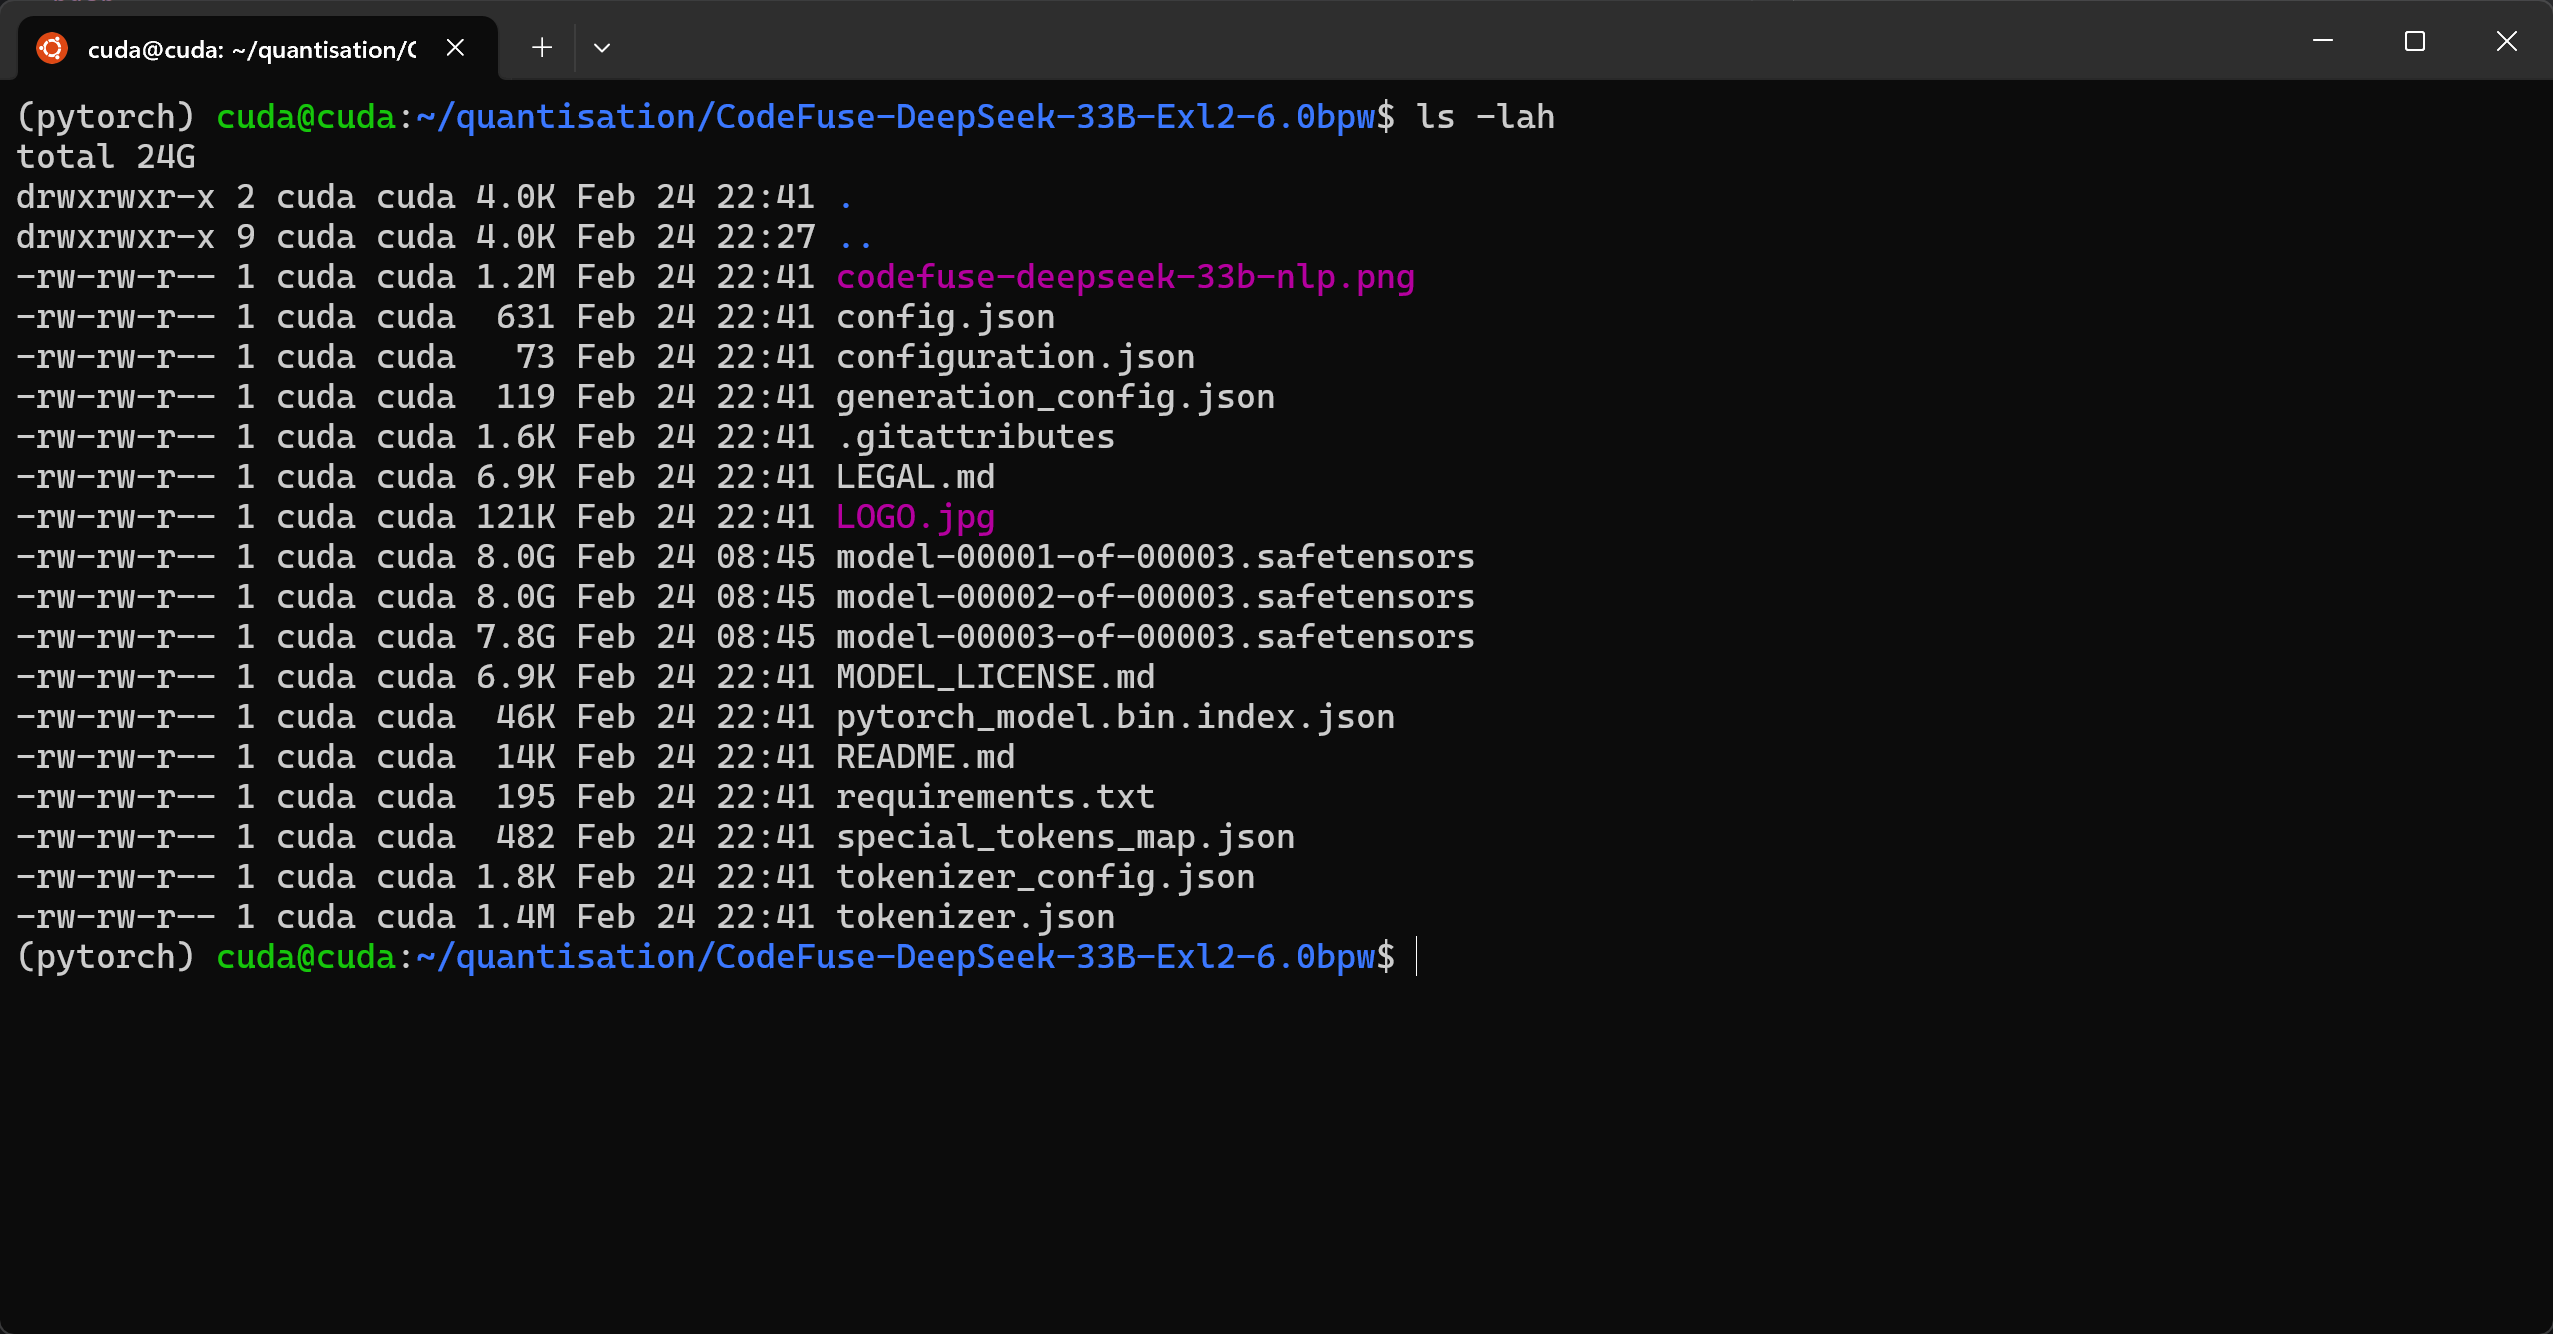
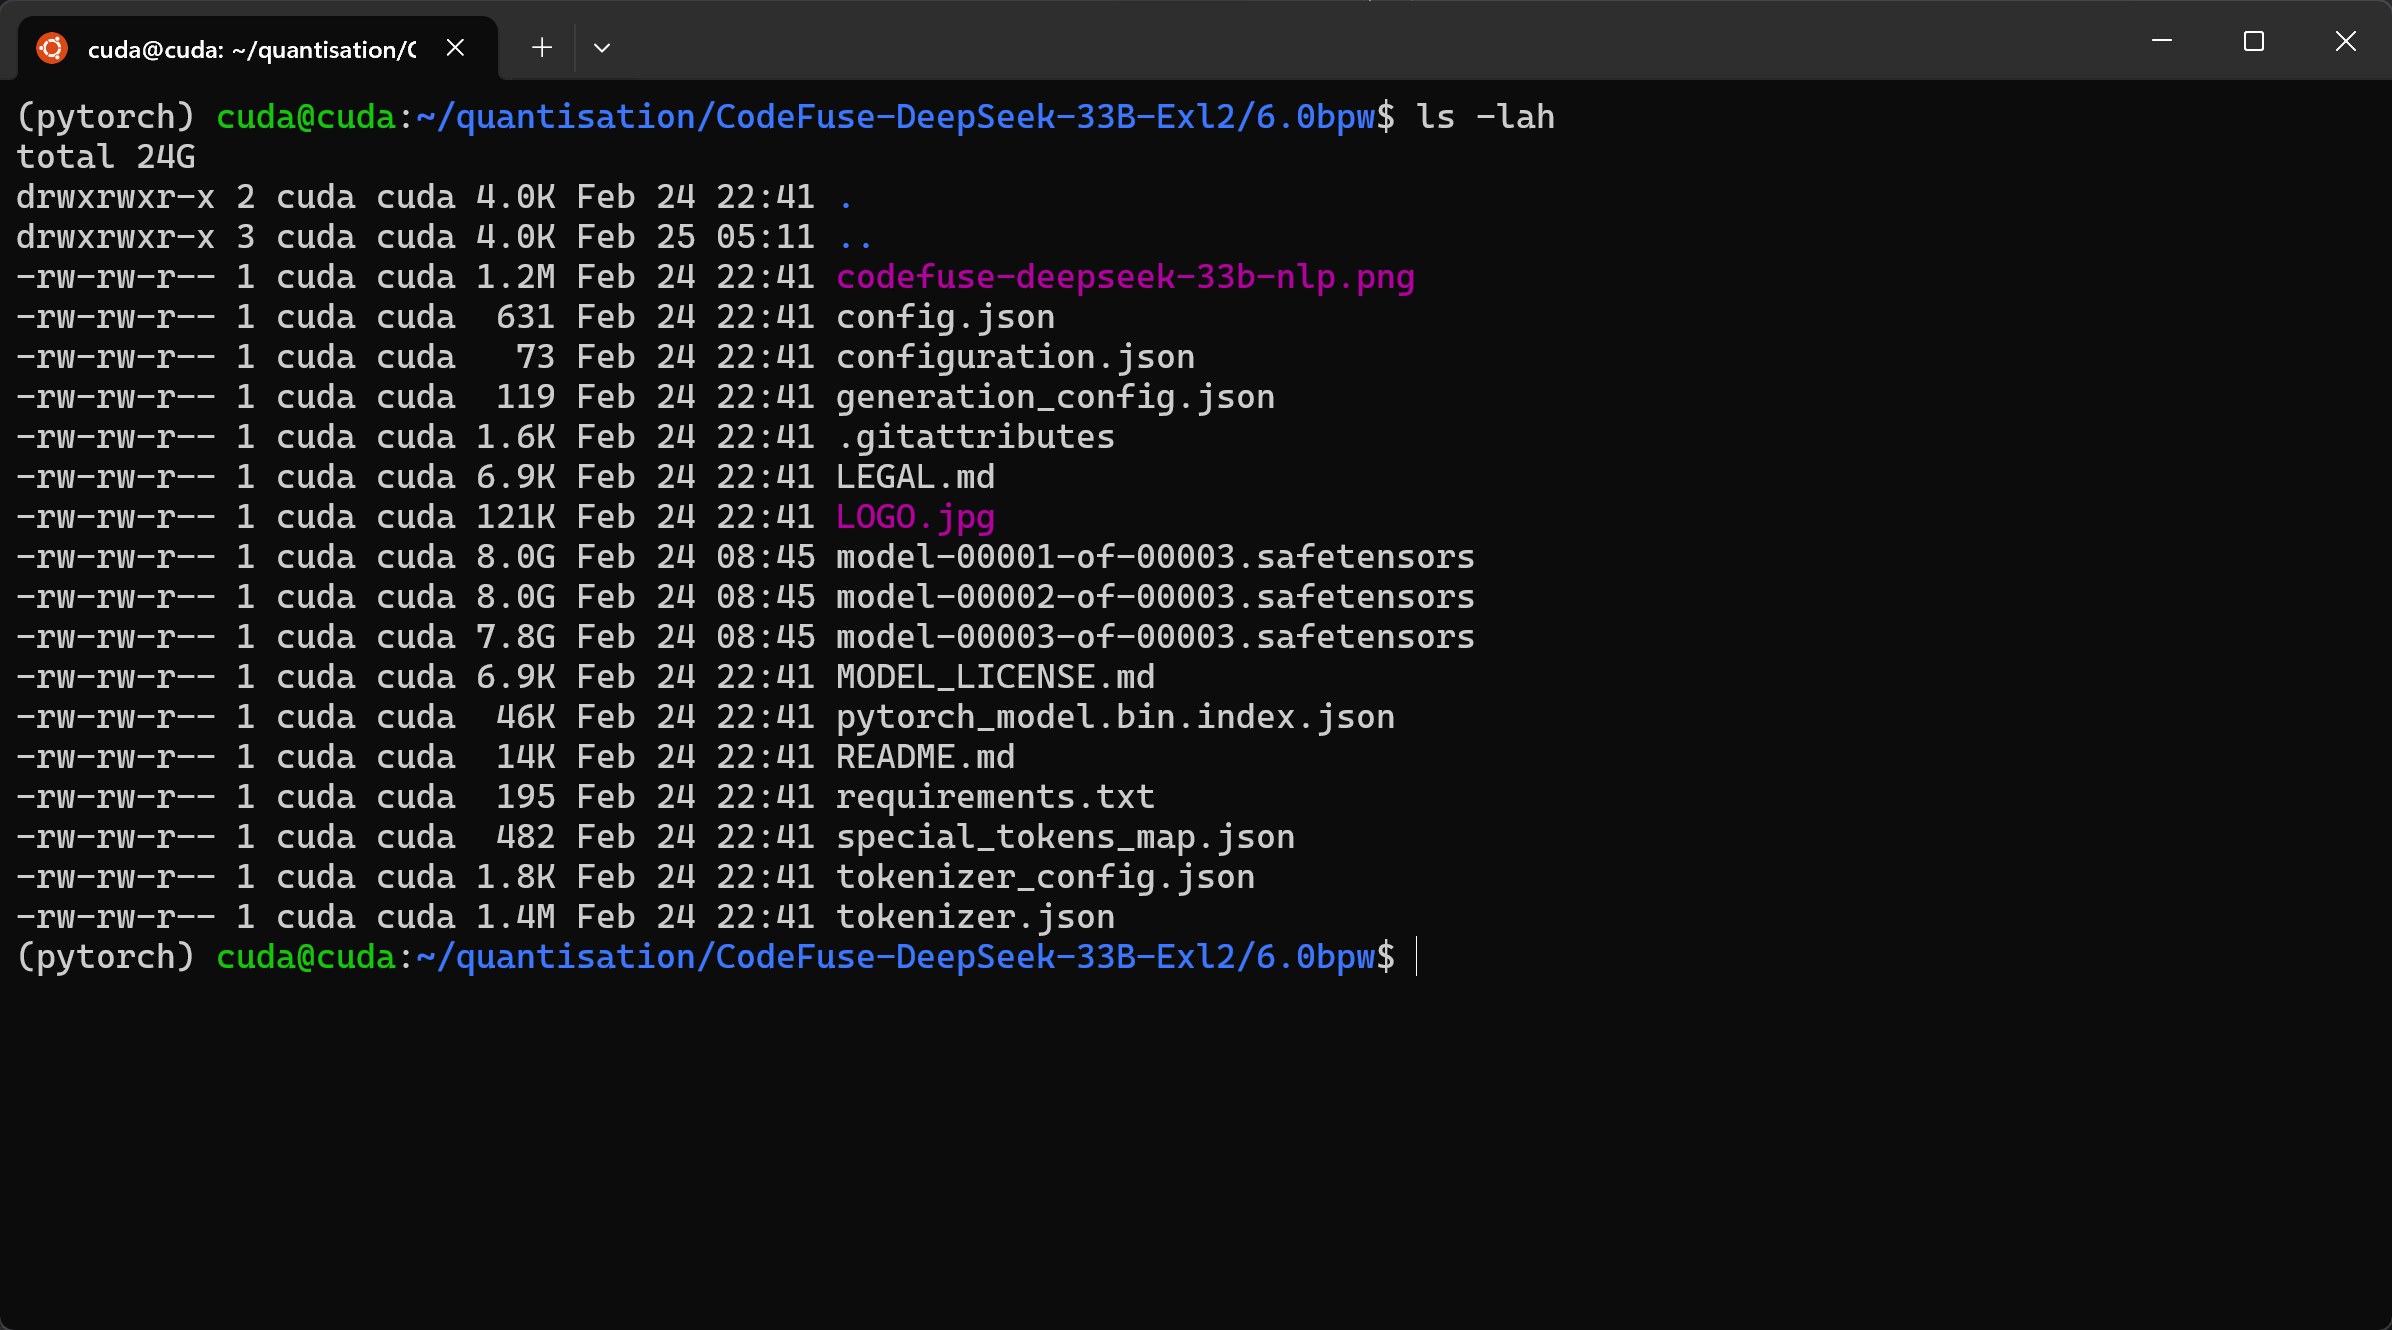
Minor corrections, standardise paths, update the convert.py params to output a fully compiled directory with the '-cf' flag (#12)

Changed region(s): [[0.0, 0.0, 0.6497, 0.7398]]

diff --git a/content/posts/convert-model-from-pytorch-to-safetensor-and-quantise-to-exl2/index.md b/content/posts/convert-model-from-pytorch-to-safetensor-and-quantise-to-exl2/index.md
@@ -18,7 +18,7 @@ This was inspired by posts which reported coding LLMs quantised to Exl2 format u
 
 In the example we are converting [codefuse-ai/CodeFuse-DeepSeek-33B](https://huggingface.co/codefuse-ai/CodeFuse-DeepSeek-33B) to Exl2 6bpw (bits per weight).
 
-I am yet to play with this model. It is a finetune of DeepSeek Coder 33B which a good open-source coding model with a license allowing commercial usage.
+I am yet to play with this model. It is a finetune of [deepseek-coder-33b-instruct](https://huggingface.co/deepseek-ai/deepseek-coder-33b-instruct) which a good open-source coding model with a license allowing commercial usage.
 
 The conversion process took just under 3 hours. It was successful using a single RTX 3060 with 12GB VRAM, and approximately 64GB RAM.
 
@@ -33,14 +33,12 @@ The conversion process took just under 3 hours. It was successful using a single
 * **Conda**
 * **Pytorch**
 * **Nvidia CUDA Toolkit**
-* **Pytorch**
-* **Tensors**
 * **ExLlamaV2**
 
 ## Bring Your Own
 * **Host with Ubuntu**
 * **Nvidia GPU**
-    * Minimum 12GB VRAM for a 33 billion parameter model
+    * 12GB VRAM did the job for a 33 billion parameter model
 * **64GB available RAM**
 * **100GB+ available disk space**
 * **Software for Testing the Quantised Model** (e.g. Text generation web UI, KoboldAI-Client, etc.)
@@ -62,18 +60,22 @@ We can confirm successful installation with the `nvidia-smi` command:
 
 ### Install Conda
 ```bash
+mkdir ~/quantisation
+cd ~/quantisation
 curl https://repo.anaconda.com/miniconda/Miniconda3-latest-Linux-x86_64.sh -O
 chmod +x Miniconda3-latest-Linux-x86_64.sh
-./Miniconda3-latest-Linux-x86_64.sh
+./Miniconda3-latest-Linux-x86_64.sh #Accept the license, and yes to the shell integration 
 ```
 We use Conda to manage Python environments. It makes handling dependencies easier when using multiple Python projects.
+
+We have created a `quantisation` directory in the users home directory to keep all the working files.
 
 ### Create a Virtual Environment using Conda
 ```bash
 conda create -n pytorch python=3.11 -y
 conda activate pytorch
 ```
-
+This creates a Virtual Environment called `pytorch` for all required Python libraries.
 
 ### Install Hugging Face Hub Package 
 ```bash
@@ -82,13 +84,13 @@ conda install huggingface_hub
 This package includes `huggingface-cli` which allows easy access to files on Hugging Face.
 
 ### Download the Model
-```
-huggingface-cli download codefuse-ai/CodeFuse-DeepSeek-33B --local-dir CodeFuse-DeepSeek-33B
+```bash
+huggingface-cli download codefuse-ai/CodeFuse-DeepSeek-33B --local-dir ~/quantisation/CodeFuse-DeepSeek-33B
 ```
 
 ### Convert Model in Pytorch Format to Safetensors Format
 ```bash
-clone https://github.com/Silver267/pytorch-to-safetensor-converter.git
+git clone https://github.com/Silver267/pytorch-to-safetensor-converter.git
 cd pytorch-to-safetensor-converter
 pip install -r requirements.txt
 python convert_to_safetensor.py
@@ -104,6 +106,7 @@ Pytorch is a dependency of ExLlamaV2.
 
 ### Install ExLlamaV2
 ```bash
+cd ~/quantisation
 git clone https://github.com/turboderp/exllamav2
 cd exllamav2
 pip install .
@@ -113,8 +116,7 @@ We install from source to prevent issues with CUDA versions not matching.
 
 ### Download Calibration Dataset
 ```bash
-cd ..
-huggingface-cli download --repo-type dataset rombodawg/MegaCodeTraining --revision refs/convert/parquet --include '*.parquet' --local-dir MegaCodeTraining
+huggingface-cli download --repo-type dataset rombodawg/MegaCodeTraining --revision refs/convert/parquet --include '*.parquet' --local-dir ~/quantisation/MegaCodeTraining
 ```
 The dataset is used for calibration data when quantising the model from Safetensors format to ExLlamaV2. It is in the `parquet` format as required by ExLlamaV2.  
 
@@ -123,38 +125,30 @@ This followed the example set by [epicfilemcnulty in this post.](https://www.red
 
 ### Quantise the Safetensors Model to ExLlamaV2
 ```bash
-cd exllamav2
-python convert.py -b 6.0 -rs 4 -i ../CodeFuse-DeepSeek-33B/CodeFuse-DeepSeek-33B_safetensors/ -o ../CodeFuse-DeepSeek-33B-Exl2 -c ../MegaCodeTraining/default/train/0000.parquet
+mkdir -p ~/quantisation/CodeFuse-DeepSeek-33B-Exl2/6.0bpw
+cd ~/quantisation/exllamav2
+python convert.py -b 6.0 -rs 4 -c ~/quantisation/MegaCodeTraining/default/train/0000.parquet -i ~/quantisation/CodeFuse-DeepSeek-33B/CodeFuse-DeepSeek-33B_safetensors/ -o ~/quantisation/CodeFuse-DeepSeek-33B-Exl2 -cf ~/quantisation/CodeFuse-DeepSeek-33B-Exl2/6.0bpw 
 ```
 We set the desired average bits per weight to 6.0. This a relatively high bpw, the intended system has 48GB available VRAM. Note `rope-scaling` does not read automatically from the model's `config.json`, DeepSeek Coder's is 4. For many other models I have seen the value is 1. 
 
+This command took a bit under three hours to finish.
+
 ![Quantise Safetensors Model to Exl2](5-quantise-safetensors-model-to-exl2.png)
 
-### Put it Together for the Fully Compiled Model
+#### The Fully Compiled Model
 
 ```bash
-cd ..
-mkdir CodeFuse-DeepSeek-33B-Exl2-6.0bpw
-mv CodeFuse-DeepSeek-33B-Exl2/output*.safetensors CodeFuse-DeepSeek-33B-Exl2-6.0bpw 
-for file in CodeFuse-DeepSeek-33B-Exl2-6.0bpw/output-*.safetensors; do mv "$file" "${file/output/model}"; done
-find CodeFuse-DeepSeek-33B -maxdepth 1 -mindepth 1 -type f ! -name "*.bin"  -exec cp {} CodeFuse-DeepSeek-33B-Exl2-6.0bpw \;
-cd CodeFuse-DeepSeek-33B-Exl2-6.0bpw 
+cd ~/quantisation/CodeFuse-DeepSeek-33B-Exl2/6.0bpw 
+ls -lah
 ```
-This creates a directory with all the files required to run the quanitised model using any software which runs Exl2 models (e.g. ExLlamaV2, TabbyAPI, Text generation web UI, KoboldAI-Client, LocalAI).
 
-It may also be pushed to a Hugging Face repo to give back and share the work. We would update the README.md to reflect the changes to the model.
+![Screenshot of Directory Containing Quantised Model](3-screenshot-of-quantised-model-directory-listing.png)
 
 Subsequent quants of the same model can be done quicker by leveraging the calculations done on the first by passing in the the `measurement.json` file, e.g. `-m CodeFuse-DeepSeek-33B-Exl2/measurement.json`. Refer to the [ExLlamaV2 documentation](https://github.com/turboderp/exllamav2/blob/master/doc/convert.md) for additional details.
 
-Note, there is a command line arg for the ExLlamaV2 `convert.py` which will create a fully compiled directory as part of its output, it is `-cf` followed by the path. This would be cleaner than the `find` and `for` loop employed in the above code block. 
-
-```bash
-ls -lah
-```
-![Screenshot of Directory Containing Quantised Model](3-screenshot-of-quantised-model-directory-listing.png)
 
 ### Test the Quantised Model Answers a Question
-These screenshots are of loading and testing the model in Text Generation Web UI. How to set this up is not part of today's notes. The inclusion is to demonstrate that the resulting model passes the smoke test.
+These screenshots are of loading and testing the model in Text generation web UI. How to set this up is not in today's notes. The inclusion is to demonstrate that the resulting model passes is first smoke test.
 ![Loaded Model In Text generation web UI](7-loaded-model-in-text-generation-web-ui.png)
 
 ![Explain this Code Example in Text generation web UI part 1](8-explain-this-code-example-in-text-generation-web-ui-1.png)
@@ -166,4 +160,5 @@ Initial tests using the `Suggest one improvement to this code` prompt are yieldi
 ## Success
 Time for further testing of the quantised model with development tasks. 
 
+Following testing, we then push the quantised model up to a Hugging Face repo to give back and share the work. The README.md will require updating to reflect the changes to the model.
 
